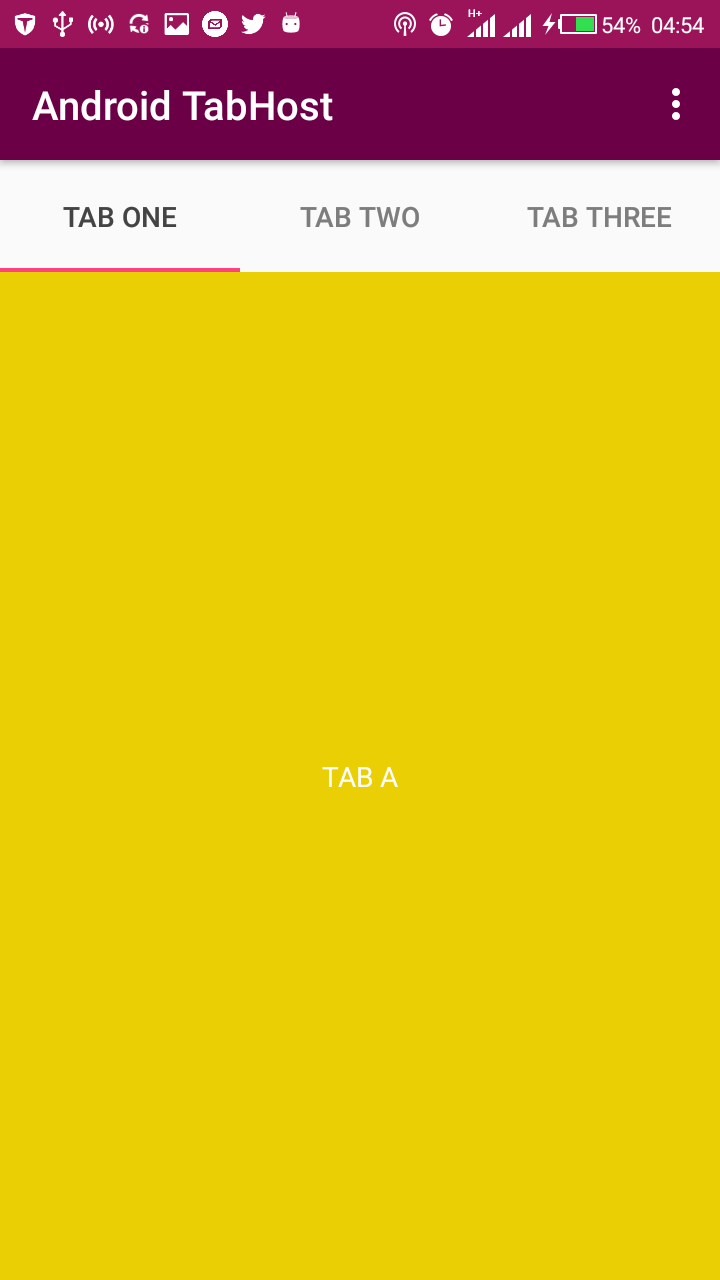
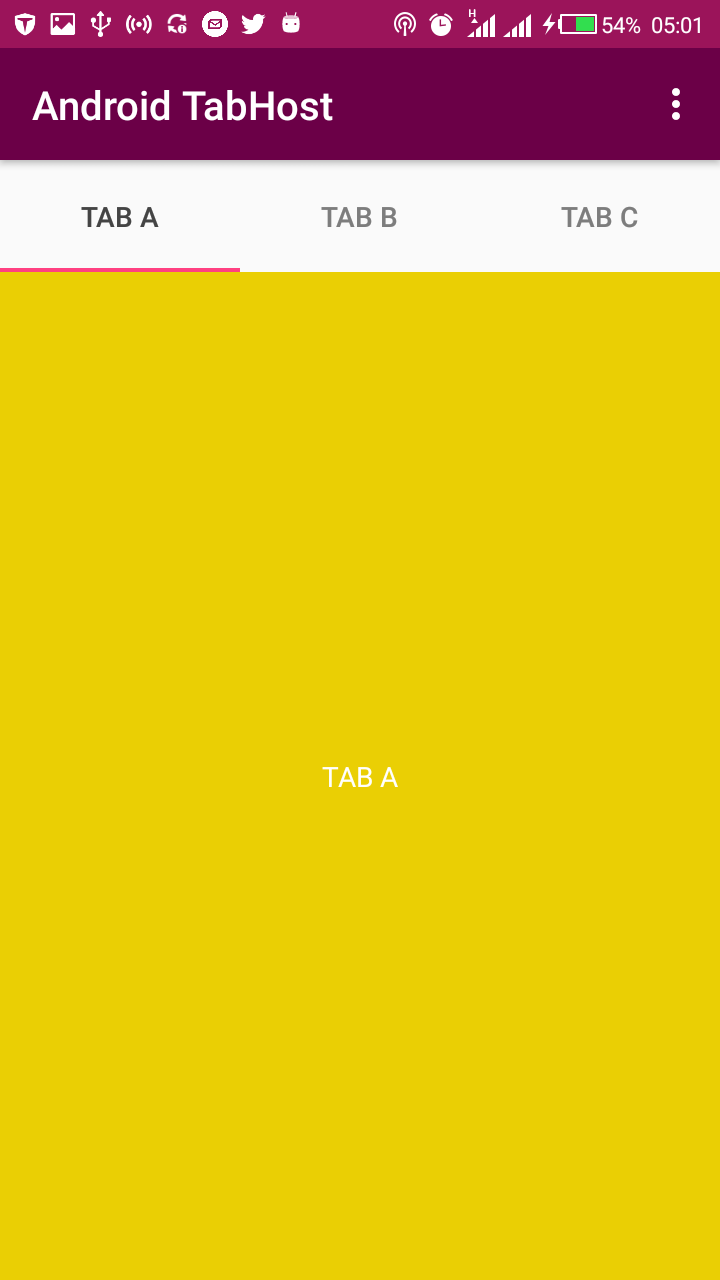
update Images

diff --git a/app/src/main/java/io/droidmarvin/androidtabhost/TabHostActivity.java b/app/src/main/java/io/droidmarvin/androidtabhost/TabHostActivity.java
@@ -18,21 +18,21 @@ public class TabHostActivity extends AppCompatActivity {
         host.setup();
 
         //Tab 1
-        TabHost.TabSpec spec = host.newTabSpec("Tab One");
+        TabHost.TabSpec spec = host.newTabSpec("Tab A");
         spec.setContent(R.id.tab1);
-        spec.setIndicator("Tab One");
+        spec.setIndicator("Tab A");
         host.addTab(spec);
 
         //Tab 2
-        spec = host.newTabSpec("Tab Two");
+        spec = host.newTabSpec("Tab B");
         spec.setContent(R.id.tab2);
-        spec.setIndicator("Tab Two");
+        spec.setIndicator("Tab B");
         host.addTab(spec);
 
         //Tab 3
-        spec = host.newTabSpec("Tab Three");
+        spec = host.newTabSpec("Tab C");
         spec.setContent(R.id.tab3);
-        spec.setIndicator("Tab Three");
+        spec.setIndicator("Tab C");
         host.addTab(spec);
     }
 
